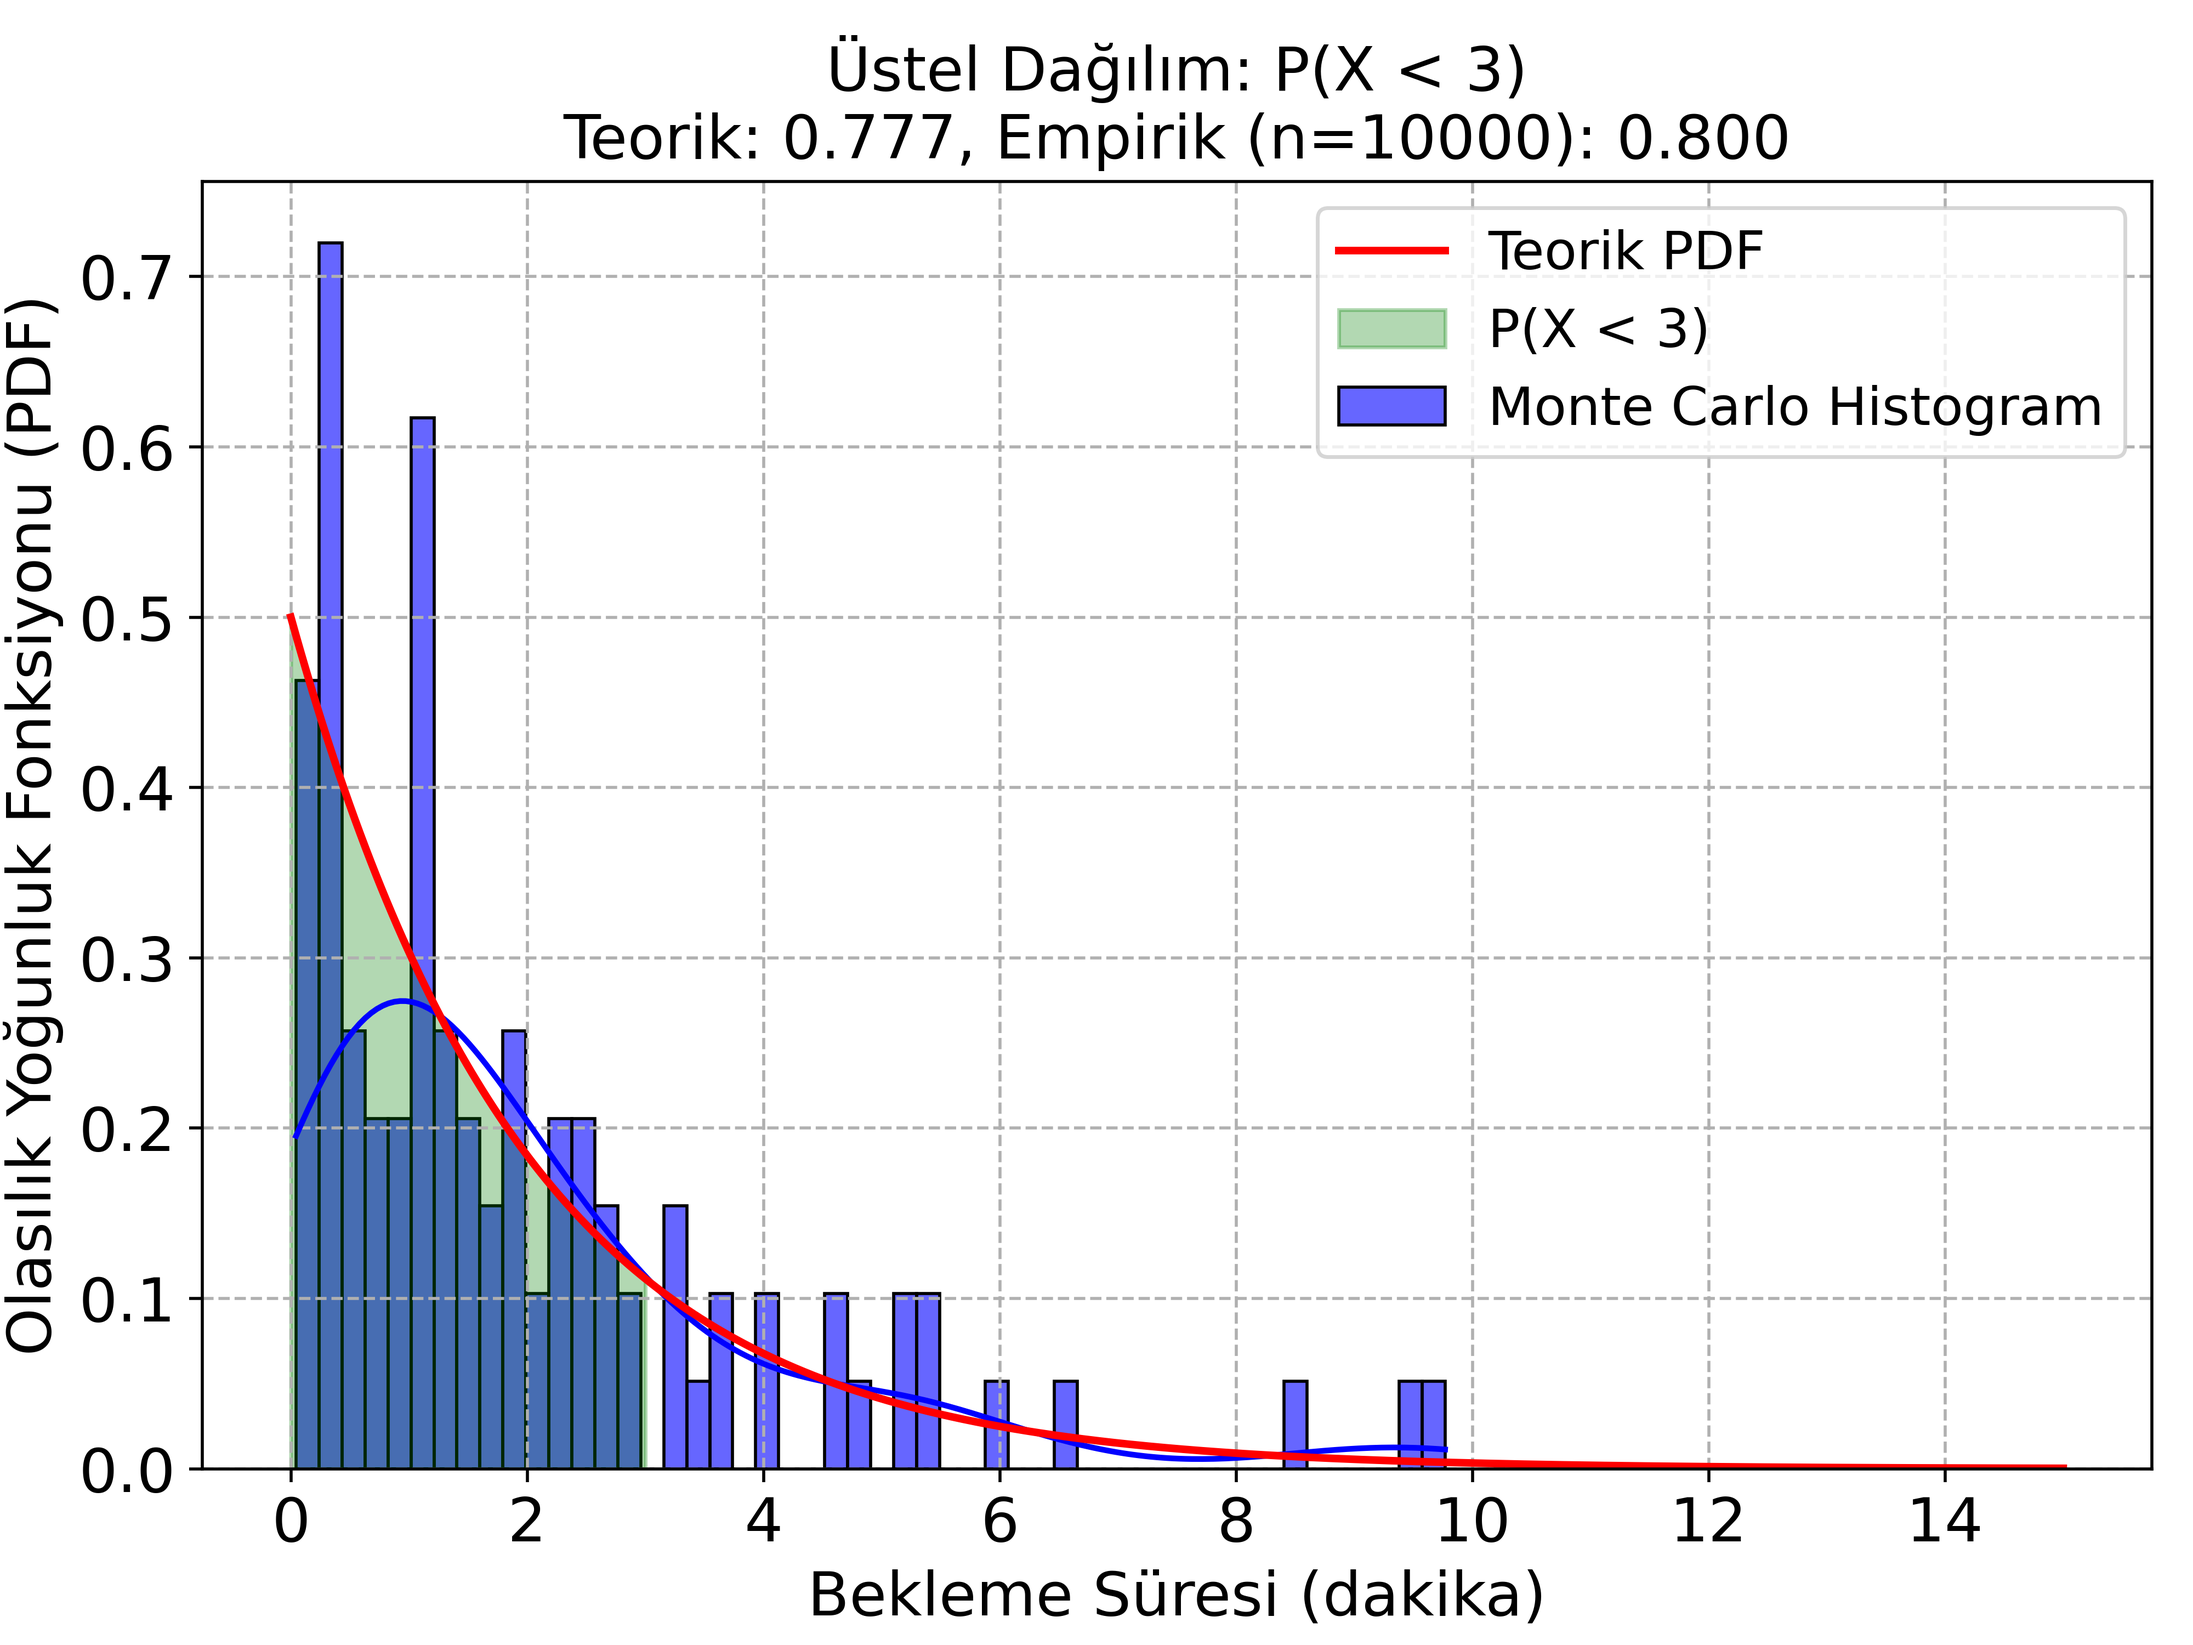
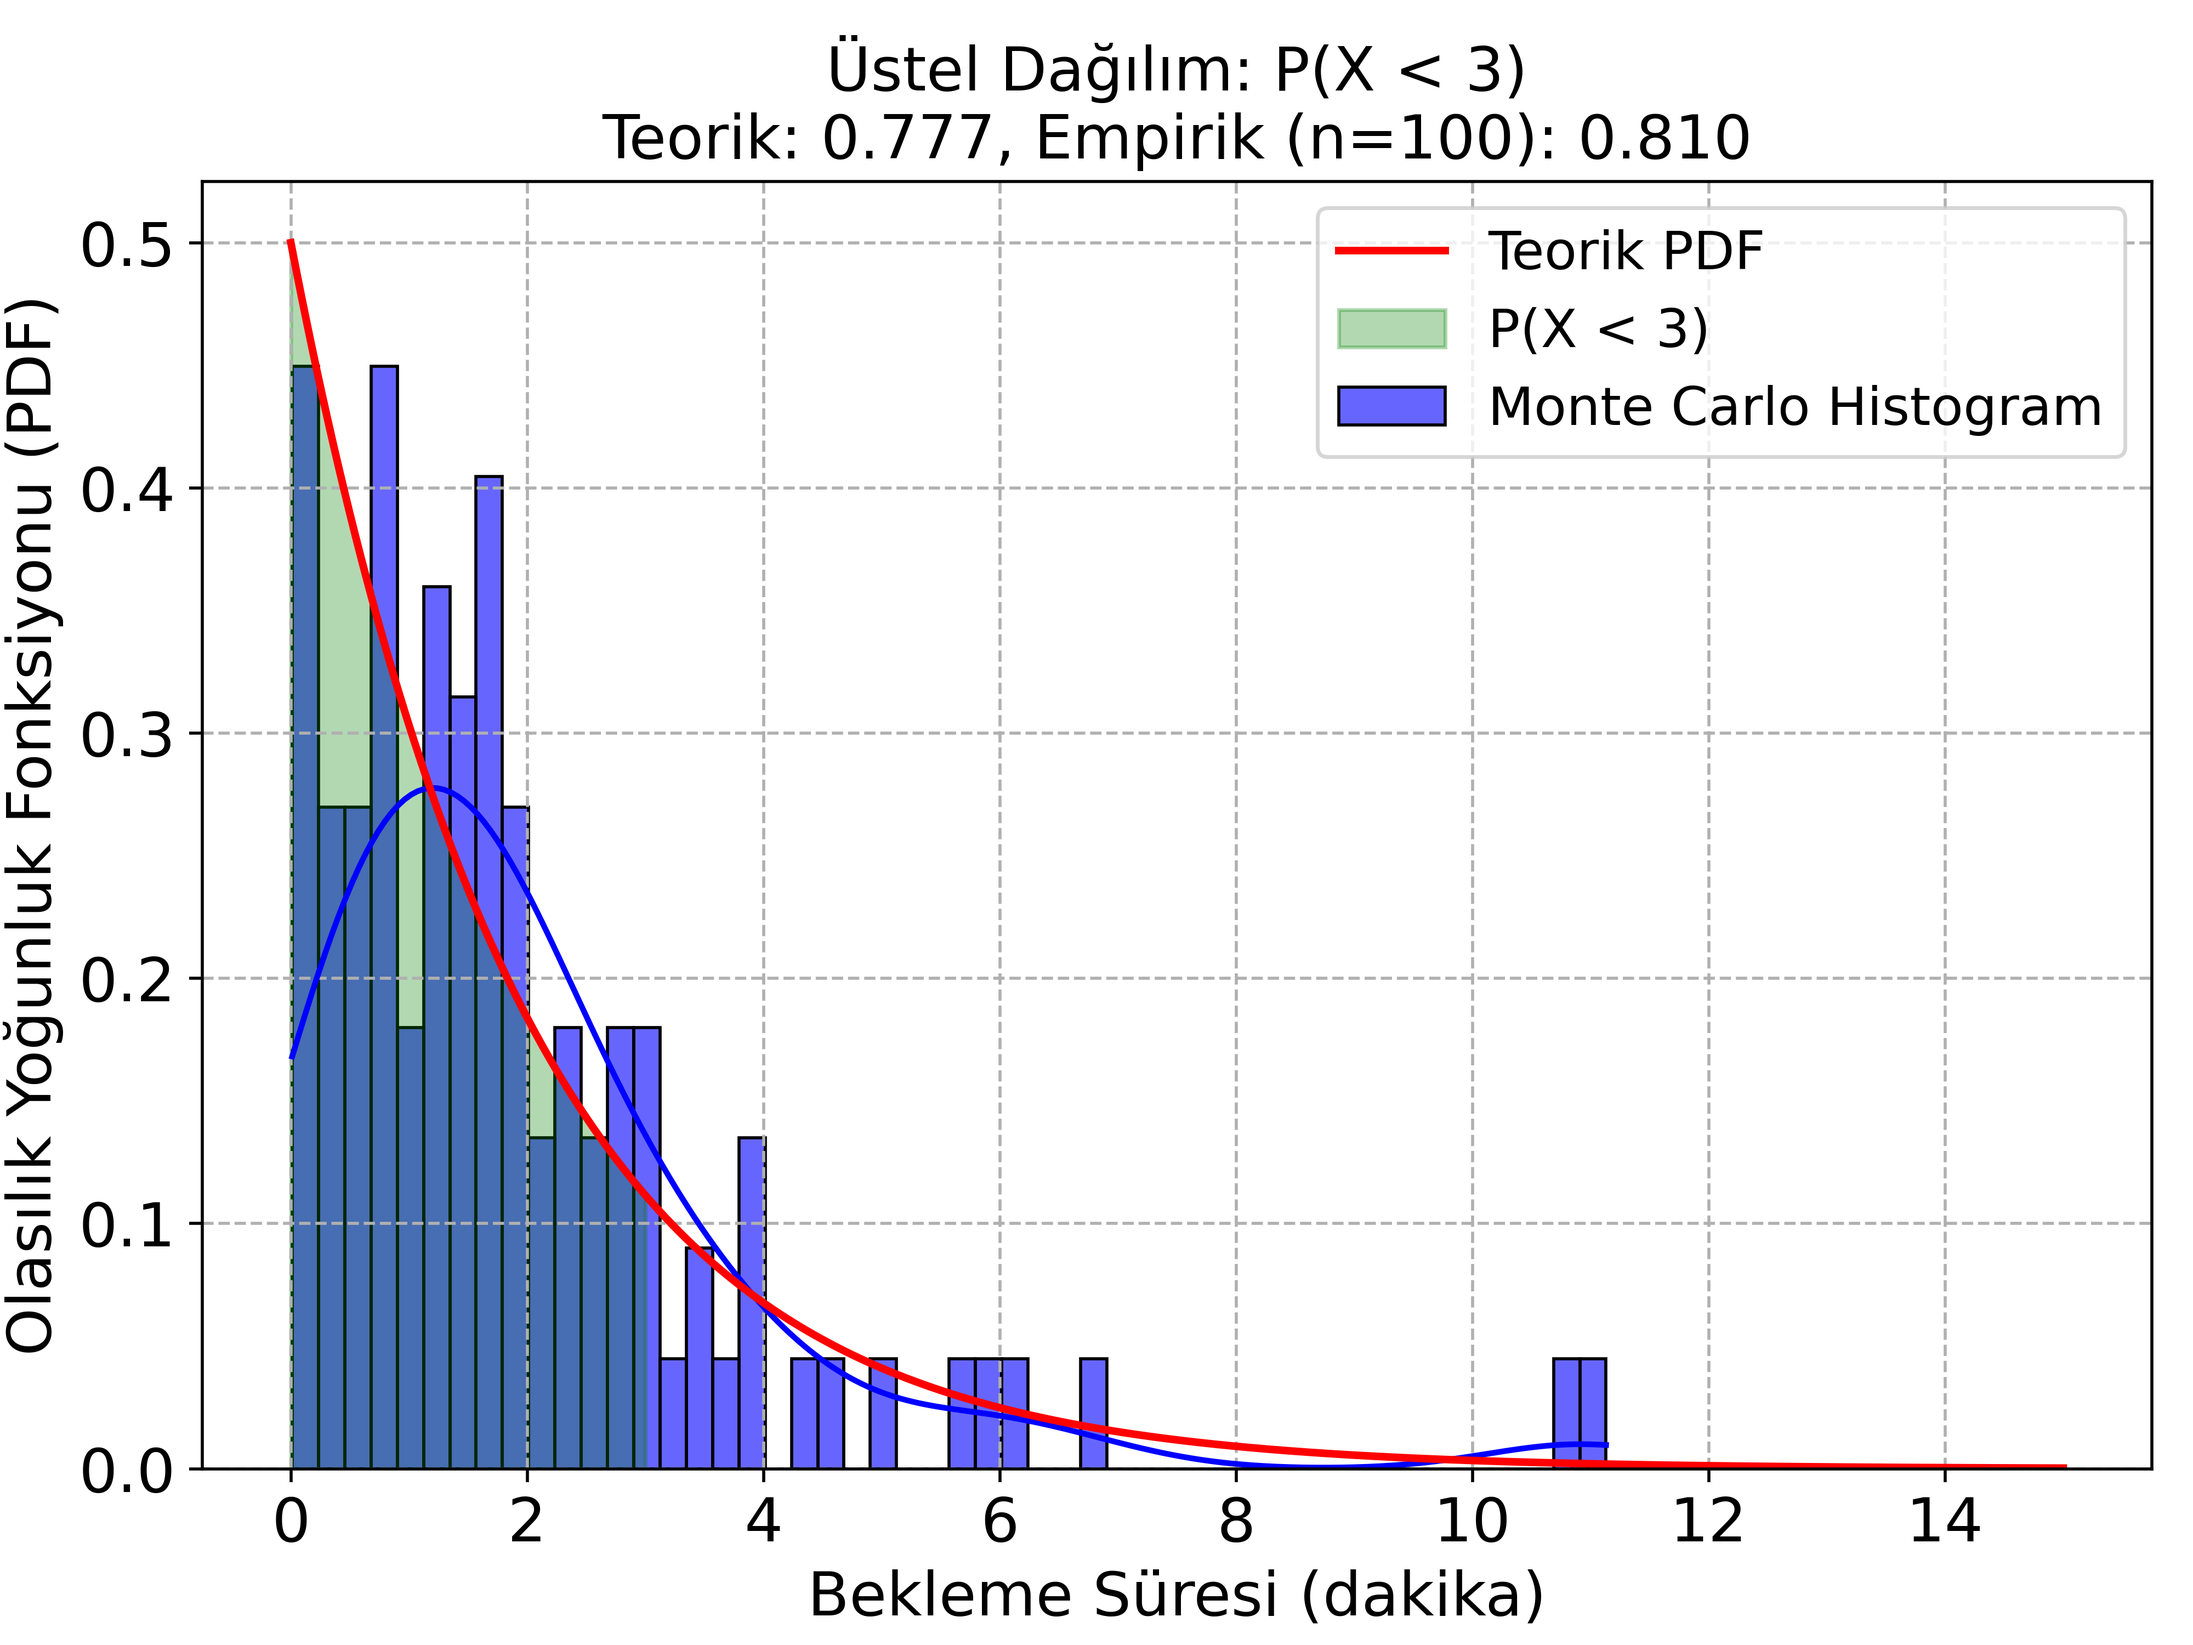
6. Hafta üstel dağılım örneği eklendi

diff --git a/week-06/code/phone_call_wait_time.py b/week-06/code/phone_call_wait_time.py
@@ -30,7 +30,7 @@ plt.plot(x_vals, exponential_pdf(x_vals, lambd), 'r', lw=2, label='Teorik PDF')
 plt.fill_between(x_fill, exponential_pdf(x_fill, lambd), alpha=0.3, color='g', label='P(X < 3)')
 plt.xlabel('Bekleme Süresi (dakika)', fontsize=16)
 plt.ylabel('Olasılık Yoğunluk Fonksiyonu (PDF)', fontsize=16)
-plt.title(f'Üstel Dağılım: P(X < 3)\nTeorik: {P_X_less_3_theoretical:.3f}, Empirik (n=10000): {P_X_less_3_empirical:.3f}', fontsize=16)
+plt.title(f'Üstel Dağılım: P(X < 3)\nTeorik: {P_X_less_3_theoretical:.3f}, Empirik (n={n}): {P_X_less_3_empirical:.3f}', fontsize=16)
 plt.grid(True, linestyle='--')
 plt.tight_layout()
 # plt.subplots_adjust(left=0.11)  # Increase left margin specifically

diff --git a/README.md b/README.md
@@ -24,7 +24,7 @@ fizik gibi alanlarda kullanılır.</p>
 </ul>
 
 <h3>💻 Nasıl Monte Carlo Simülasyonu Yapacağız?</h3>
-<p align="justify">Bilgisayarların işlemcilerinde (cpu veya gpu) sayıcılar (counter) veya zamanlayıcılar (timer) denilen birimler vardır. Burada rasgele sayı üreteci (random number generator) yardımıyla bu simülasyonlar yapılabilir. Bütün programlama dilleriyle rasgele sayı üretilebilir ancak biz burada <b>Python</b>'da <b>numpy</b> paketinin <b>random</b> sınıfında tanımlı <b>uniform()</b>, <b>randint()</b>, <b>shuffle()</b>, <b>normal()</b>, <i>vb.</i> gibi fonksiyonları kullanarak rasgele sayı üretecek ve böylece Monte Carlo simülasyonları yapacağız. Ayrıca uygun olan bazı problemlerde sonuçları <b>matplotlib</b> paketi ile görselleştireceğiz. Her zaman olmasa da <b>scipy</b> paketine de ihtiyaç duyabilmekteyiz. Bu yüzden onu da yüklerseniz iyi olur.</p>
+<p align="justify">Bilgisayarların işlemcilerinde (cpu veya gpu) sayıcılar (counter) veya zamanlayıcılar (timer) denilen birimler vardır. Burada rasgele sayı üreteci (random number generator) yardımıyla bu simülasyonlar yapılabilir. Bütün programlama dilleriyle rasgele sayı üretilebilir ancak biz burada <b>Python</b>'da <b>numpy</b> paketinin <b>random</b> sınıfında tanımlı <b>uniform()</b>, <b>randint()</b>, <b>shuffle()</b>, <b>normal()</b>, <i>vb.</i> gibi fonksiyonları kullanarak rasgele sayı üretecek ve böylece Monte Carlo simülasyonları yapacağız. Ayrıca uygun olan bazı problemlerde sonuçları <b>matplotlib</b> paketi ile görselleştireceğiz. Her zaman olmasa da <b>scipy</b> (5. hafta örneğinde karşımıza çıktı), <b>seaborn</b> (6. hafta örneğinde karşımıza çıktı) gibi paketlere de ihtiyaç duyabilmekteyiz. Bu yüzden onu da yüklerseniz iyi olur.</p>
 
 <p align="justify"><a href="https://github.com/mtahakoroglu/monte-carlo-simulation/tree/main/week-01">Hafta 1: 📝 Pi Sayısını Tahmin Etme</a> | <a href="https://www.youtube.com/watch?v=uY9mXSJkxpw&list=PLMoe16OQDeeBlOr_C8cCvN_UV7irHupO0&index=2">video</a></p>
 <p align="justify"><a href="https://github.com/mtahakoroglu/monte-carlo-simulation/tree/main/week-02">Hafta 2: 🫂 İki arkadaşın buluşma olasılığı | <a href="https://www.youtube.com/watch?v=8aBywUP7tTM&list=PLMoe16OQDeeBlOr_C8cCvN_UV7irHupO0&index=2">video</a></p>
@@ -32,4 +32,4 @@ fizik gibi alanlarda kullanılır.</p>
 <p align="justify"><a href="https://github.com/mtahakoroglu/monte-carlo-simulation/tree/main/week-04">Hafta 4: 💻 Uygulama (LAB)</a></p>
 <p align="justify"><a href="https://github.com/mtahakoroglu/monte-carlo-simulation/tree/main/week-05">Hafta 5: 🔩 Vidaların Kabul Edilebilirlik Aralığı (Normal Dağılım)</a> | <a href="https://www.youtube.com/watch?v=qygabAtODsY">video</a></p>
 <p align="justify"><a href="https://github.com/mtahakoroglu/monte-carlo-simulation/tree/main/week-06">Hafta 6: ☎ Çağrı Bekleme Süreleri (Üstel Dağılım)</a> | <a href="https://www.youtube.com/watch?v=qygabAtODsY">video</a></p>
-<p align="justify"><a href="https://github.com/mtahakoroglu/monte-carlo-simulation/tree/main/week-07">Hafta 7: 📝 Ara Sınav Örneği</a> | <a href="https://www.youtube.com">video</a></p>
+<p align="justify"><a href="https://github.com/mtahakoroglu/monte-carlo-simulation/tree/main/week-07">Hafta 7: 📝 Ara Sınav Örneği</a> | <a href="https://www.youtube.com/watch?v=-0Tr9FeRFF8">video</a></p>

diff --git a/week-06/README.md b/week-06/README.md
@@ -5,7 +5,7 @@ Bugüne kadar Monte Carlo simülasyonları yaparken <b>numpy</b> paketinin <b>ra
 
 <p align="justify"><b>💻 ChatGPT</b><br>Selam! Bir çağrı merkezinde müşteri hizmetlerine gelen çağrılar arasındaki süre üstel dağılıma çok uygun bir örnektir. Üstel dağılımın olasılık yoğunluk fonksiyonu (pdf) şu şekilde tanımlanır:</p>
 
-$$f(x) = \lambda e^{-\lambda x}$$
+$$f_X(x) = \lambda e^{-\lambda x}$$
 
 <p align="justify">Burada:</p>
 <ul>
